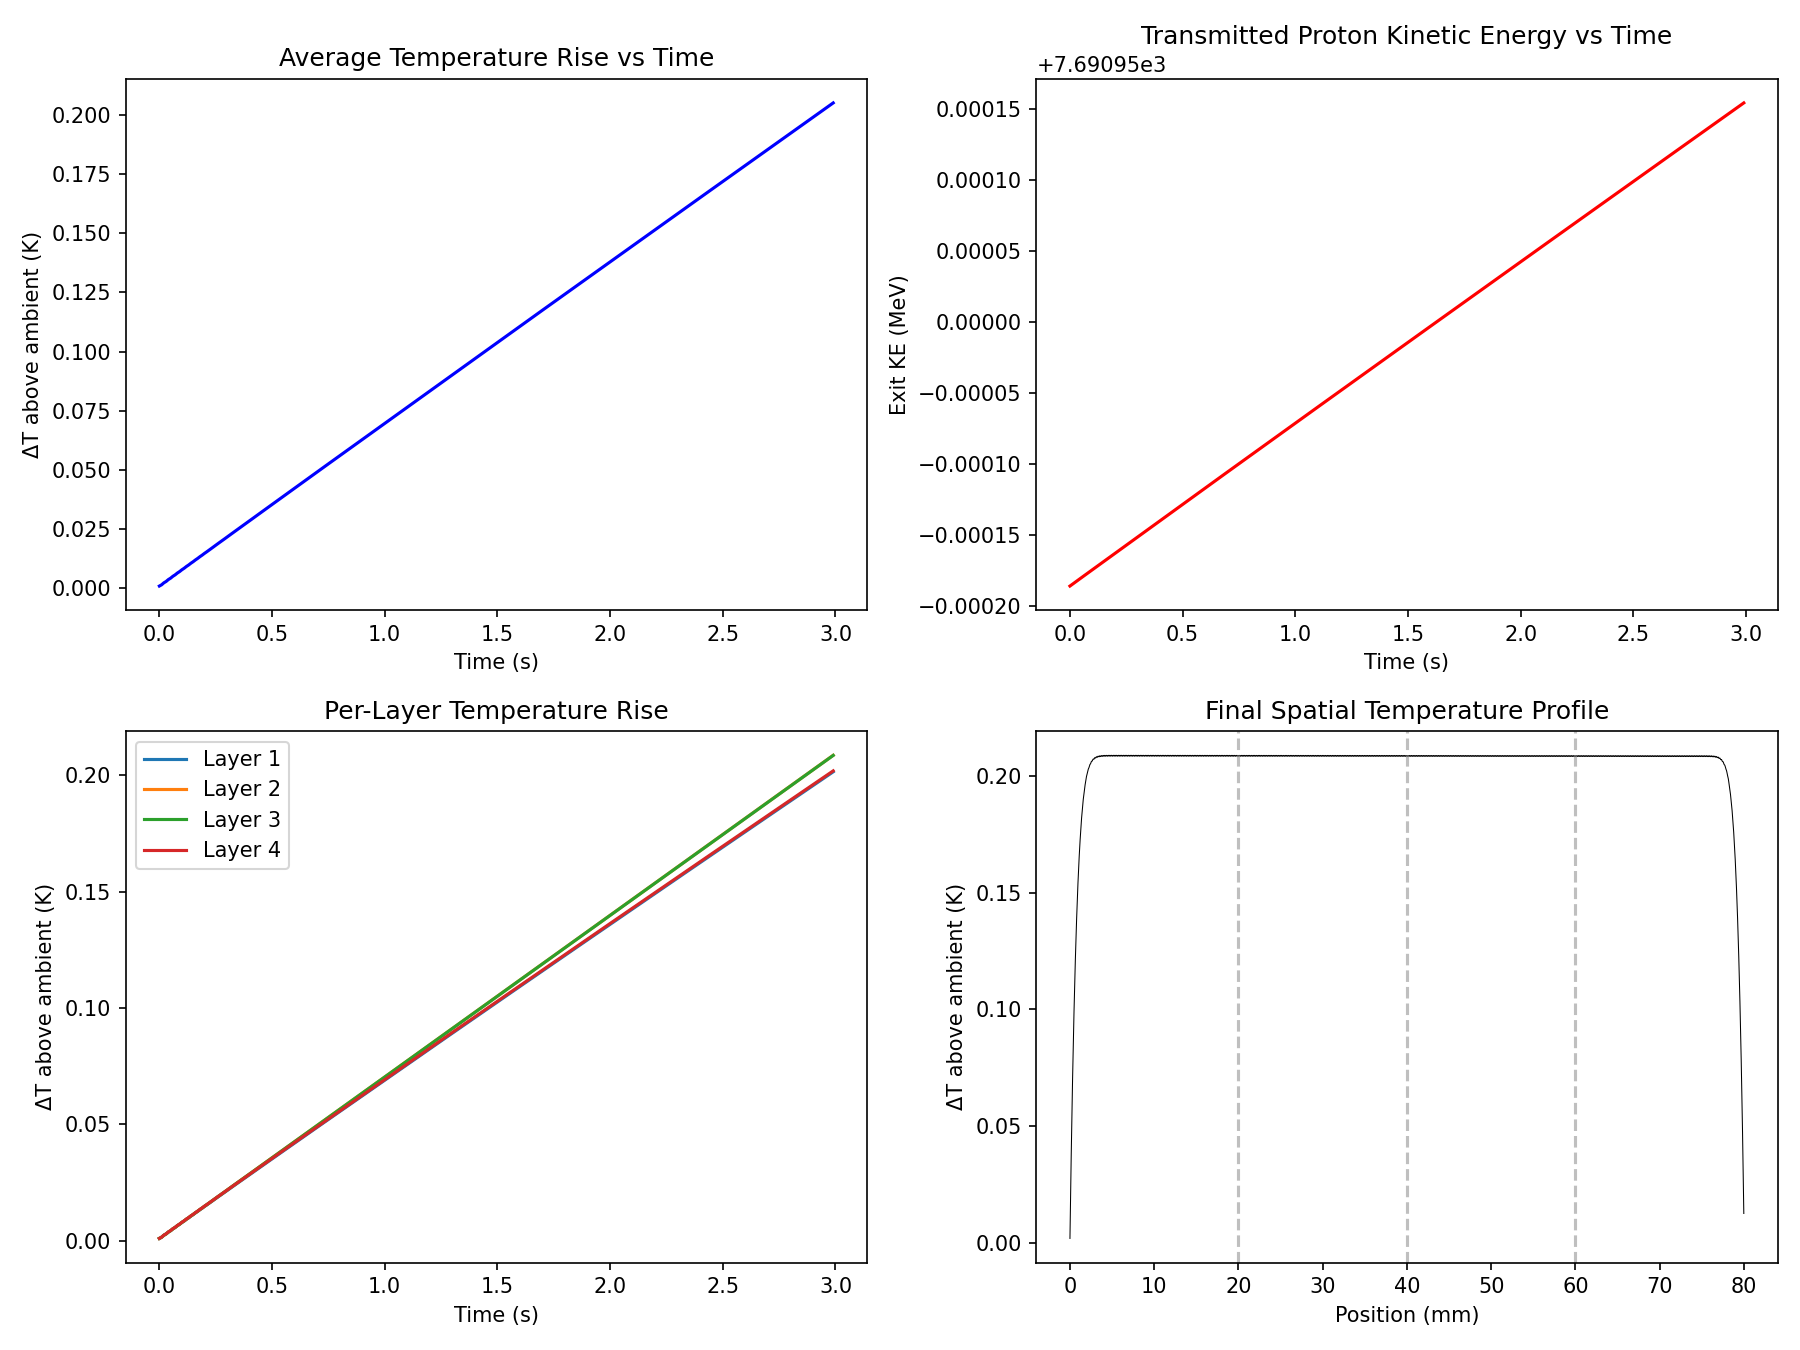
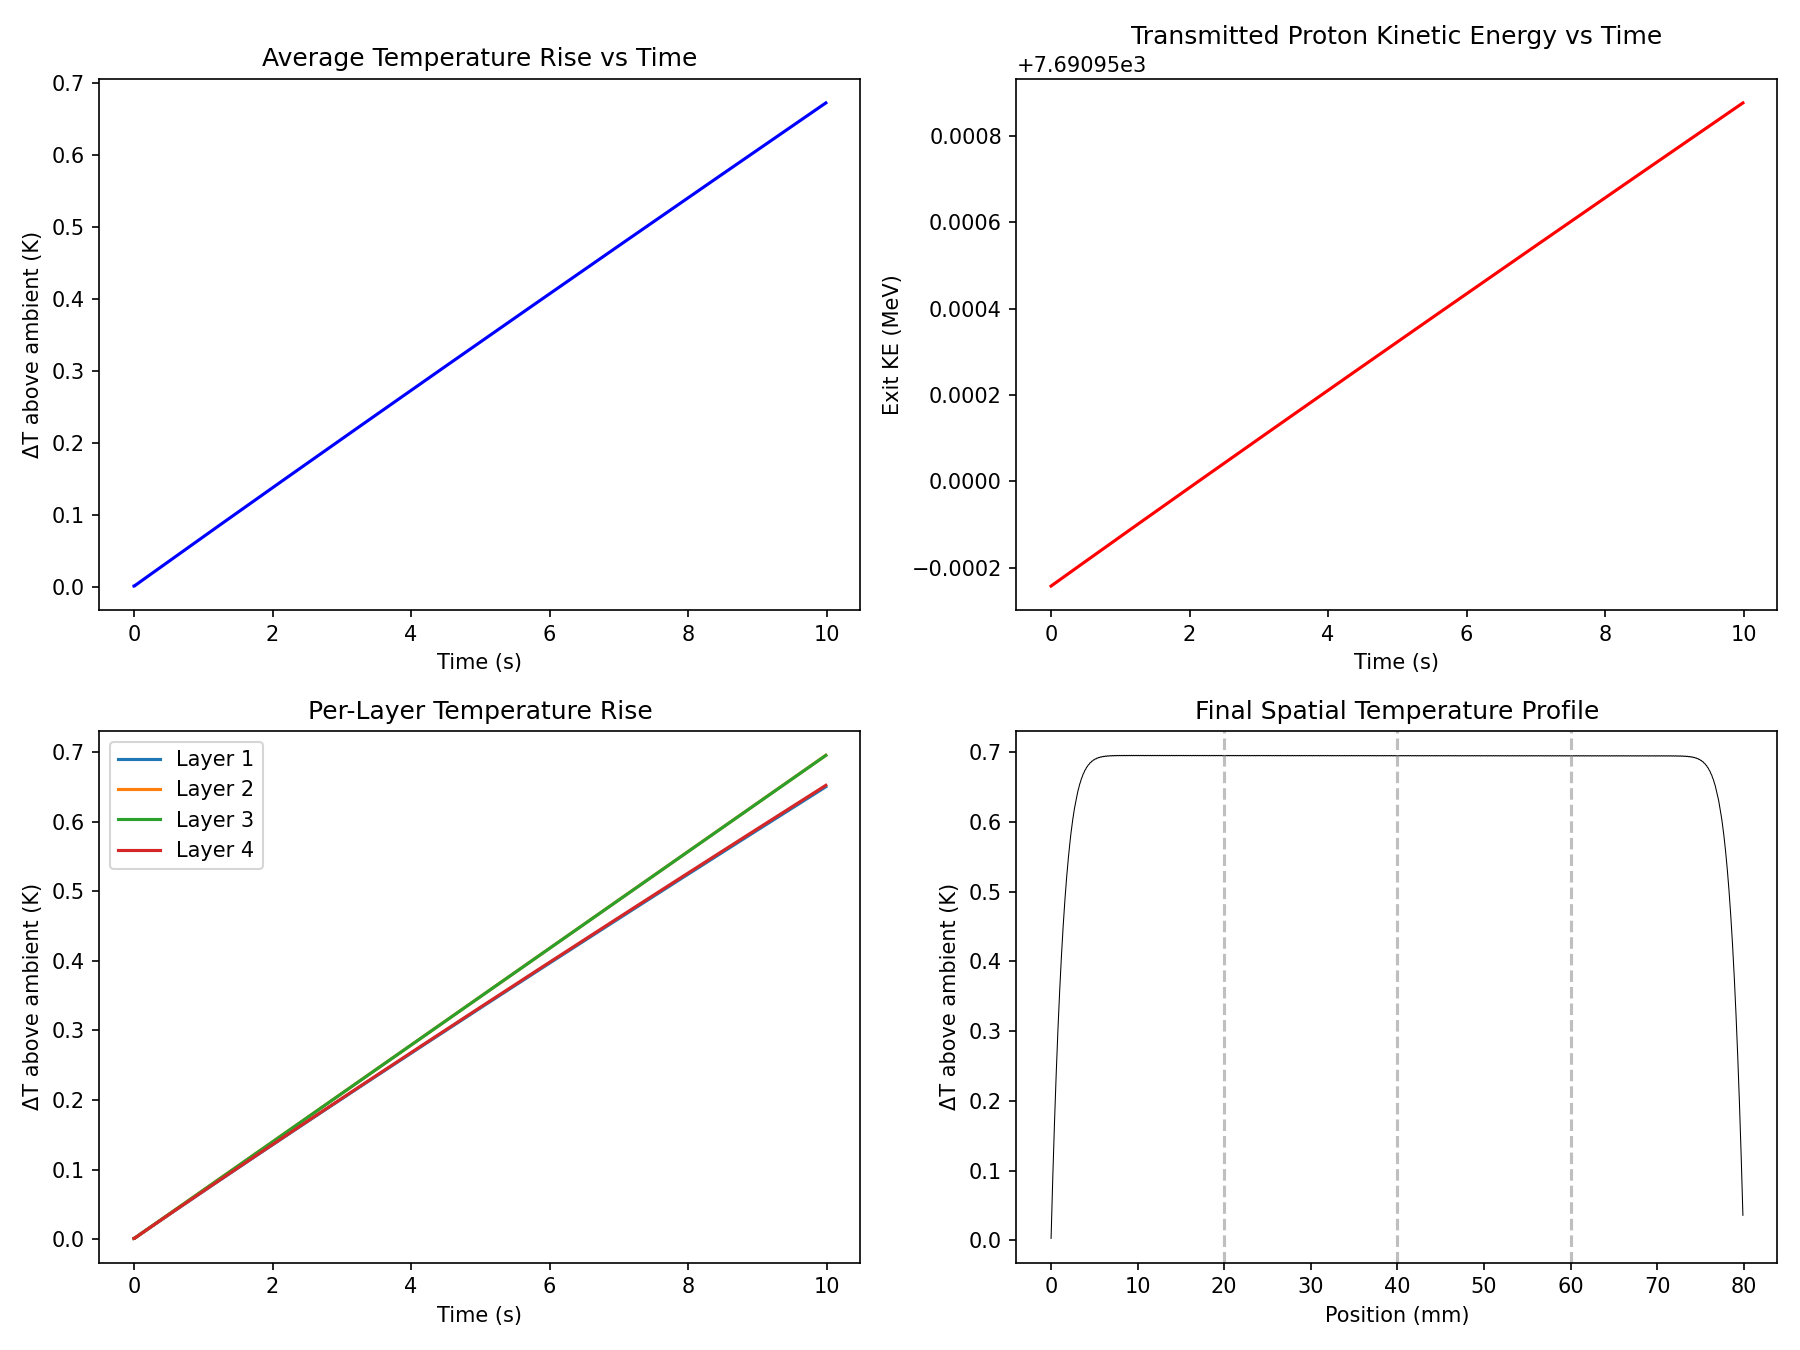
populate readme

diff --git a/sim.py b/sim.py
@@ -17,12 +17,12 @@ WATER_THICKNESS = 1e-4         # m per water sub-layer (10 µm)
 BISMUTH_THICKNESS = 1e-4       # m per bismuth sub-layer (10 µm)
 
 # -------- Boundary Conditions --------
-H_COOLING = 1e3                # convective heat transfer coeff (W/m^2/K)
+H_COOLING = 1e5                # convective heat transfer coeff (W/m^2/K)
 T_ENV = 293.0                  # K
 
 # -------- Numerics --------
-DX = 1e-5                      # spatial step (m) — match sub-layer thickness
-SIMULATION_TIME = 3.0          # seconds
+DX = 1e-4                      # spatial step (m) — match sub-layer thickness
+SIMULATION_TIME = 10.0          # seconds
 
 # ===================== CONSTANTS =====================
 
@@ -45,6 +45,14 @@ A_BISMUTH = 208.98
 
 THERMAL_EXPANSION_WATER = 2.07e-4  # 1/K
 N_A = 6.022e23
+
+TRIALS = [
+    ("Trial 1: 80 g Bi + 200 g H2O", 80.0, 200.0),
+    ("Trial 2: 40 g Bi + 200 g H2O", 40.0, 200.0),
+    ("Trial 3: 20 g Bi + 200 g H2O", 20.0, 200.0),
+    ("Trial 4: 10 g Bi + 200 g H2O", 10.0, 200.0),
+    ("Trial 5: pure Bi", 2000.0, 0.0),
+]
 
 # ===================== GEOMETRY =====================
 
@@ -72,6 +80,26 @@ def build_spatial_grid():
             current_z += DX
 
     return np.array(z_positions), np.array(material_map)
+
+
+def build_trial_material_map(bismuth_g, water_ml):
+    total_cells = len(build_layers()) * max(1, int(round(WATER_THICKNESS / DX)))
+    if water_ml <= 0:
+        return np.full(total_cells, "bismuth")
+    if bismuth_g <= 0:
+        return np.full(total_cells, "water")
+
+    bismuth_volume_ml = bismuth_g / (DENSITY_BISMUTH * 1e-3)
+    bismuth_fraction = bismuth_volume_ml / (bismuth_volume_ml + water_ml)
+    bismuth_cells = int(round(total_cells * bismuth_fraction))
+
+    material_map = np.full(total_cells, "water", dtype="<U7")
+    if bismuth_cells == 0:
+        return material_map
+
+    indices = np.linspace(0, total_cells - 1, bismuth_cells, dtype=int)
+    material_map[indices] = "bismuth"
+    return material_map
 
 
 # ===================== BETHE-BLOCH (all in MeV) =====================
@@ -143,6 +171,28 @@ def transport_protons(KE0_MeV, material_map, T_profile):
     return deposition_MeV, KE
 
 
+def compute_energy_profile(KE0_MeV, material_map, T_profile):
+    KE = KE0_MeV
+    energy_profile = np.empty(len(material_map))
+
+    for i, mat in enumerate(material_map):
+        if mat == "water":
+            density = DENSITY_WATER * (1 - THERMAL_EXPANSION_WATER * (T_profile[i] - T_ENV))
+        else:
+            density = DENSITY_BISMUTH
+
+        S = stopping_power(KE, mat, density)
+        dE = min(S * DX, KE)
+        KE -= dE
+        energy_profile[i] = KE
+
+        if KE <= 0:
+            energy_profile[i:] = 0.0
+            break
+
+    return energy_profile
+
+
 # ===================== THERMAL SOLVER (implicit) =====================
 
 def get_thermal_props(material_map):
@@ -179,17 +229,21 @@ def thermal_step_implicit(T, Q, rho, cp, k, dt):
         d[i] = (r[i] * T[i-1] + (1 - 2*r[i]) * T[i] + r[i] * T[i+1]
                 + dt * Q[i] / (rho[i] * cp[i]))
 
-    # Left boundary: convective cooling
-    h_coeff_L = H_COOLING * dt / (rho[0] * cp[0] * DX)
-    b[0] = 1 + h_coeff_L
-    c_diag[0] = 0
-    d[0] = T[0] + h_coeff_L * T_ENV + dt * Q[0] / (rho[0] * cp[0])
+    # boundary rows keep conductive coupling to the adjacent cell while
+    # adding a robin-type cooling term to the environment
+    h_coeff_L = H_COOLING * dt / (2 * rho[0] * cp[0] * DX)
+    a[0] = 0.0
+    b[0] = 1 + r[0] + h_coeff_L
+    c_diag[0] = -r[0]
+    d[0] = ((1 - r[0] - h_coeff_L) * T[0] + r[0] * T[1]
+            + 2 * h_coeff_L * T_ENV + dt * Q[0] / (rho[0] * cp[0]))
 
-    # Right boundary: convective cooling
-    h_coeff_R = H_COOLING * dt / (rho[-1] * cp[-1] * DX)
-    a[-1] = 0
-    b[-1] = 1 + h_coeff_R
-    d[-1] = T[-1] + h_coeff_R * T_ENV + dt * Q[-1] / (rho[-1] * cp[-1])
+    h_coeff_R = H_COOLING * dt / (2 * rho[-1] * cp[-1] * DX)
+    a[-1] = -r[-1]
+    b[-1] = 1 + r[-1] + h_coeff_R
+    c_diag[-1] = 0.0
+    d[-1] = (r[-1] * T[-2] + (1 - r[-1] - h_coeff_R) * T[-1]
+             + 2 * h_coeff_R * T_ENV + dt * Q[-1] / (rho[-1] * cp[-1]))
 
     # Thomas algorithm (tridiagonal solve)
     T_new = thomas_solve(a, b, c_diag, d)
@@ -220,15 +274,11 @@ def compute_stable_dt(rho, cp, k):
     return 0.01  # 10ms steps
 
 
-def run_simulation():
-    z, material_map = build_spatial_grid()
-    N = len(z)
-    print(f"Grid: {N} cells, total length: {z[-1]*1000:.2f} mm")
-
+def simulate_material_map(material_map):
+    N = len(material_map)
+    z = np.arange(N) * DX
     rho, cp, k = get_thermal_props(material_map)
     dt = compute_stable_dt(rho, cp, k)
-    print(f"Using dt = {dt:.6f} s")
-
     T = np.full(N, T_ENV)  # start at ambient
     times = np.arange(0, SIMULATION_TIME, dt)
 
@@ -262,6 +312,56 @@ def run_simulation():
         layer_avg_temps.append(layer_temps)
 
     return times, np.array(avg_temps), np.array(exit_energies), np.array(layer_avg_temps), z, T
+
+
+def run_simulation():
+    z, material_map = build_spatial_grid()
+    print(f"Grid: {len(z)} cells, total length: {z[-1]*1000:.2f} mm")
+
+    rho, cp, k = get_thermal_props(material_map)
+    dt = compute_stable_dt(rho, cp, k)
+    print(f"Using dt = {dt:.6f} s")
+
+    return simulate_material_map(material_map)
+
+
+def plot_trial_energy_profiles():
+    fig, ax = plt.subplots(figsize=(10, 6))
+
+    for label, bismuth_g, water_ml in TRIALS:
+        material_map = build_trial_material_map(bismuth_g, water_ml)
+        z = np.arange(len(material_map)) * DX
+        T_profile = np.full(len(material_map), T_ENV)
+        energy_profile = compute_energy_profile(PROTON_KE_MEV, material_map, T_profile)
+        ax.plot(z * 1000, energy_profile, linewidth=2, label=label)
+
+    ax.set_xlabel("Depth Through Shield (mm)")
+    ax.set_ylabel("Proton Energy Remaining (MeV)")
+    ax.set_title("Proton Energy Remaining vs Depth for Shield Trials")
+    ax.legend()
+    ax.grid(alpha=0.3)
+    fig.tight_layout()
+    fig.savefig("energy_remaining_by_trial.png", dpi=150)
+    return fig
+
+
+def plot_trial_temperature_profiles():
+    fig, ax = plt.subplots(figsize=(10, 6))
+
+    for label, bismuth_g, water_ml in TRIALS:
+        material_map = build_trial_material_map(bismuth_g, water_ml)
+        _, _, _, _, z, T_final = simulate_material_map(material_map)
+        ax.plot(z * 1000, T_final - T_ENV, linewidth=2, label=label)
+
+    ax.set_xlabel("Depth Through Shield (mm)")
+    ax.set_ylabel("Final Temperature Rise (K, log scale)")
+    ax.set_title("Final Temperature Rise vs Depth for Shield Trials")
+    ax.set_yscale("log")
+    ax.legend()
+    ax.grid(alpha=0.3)
+    fig.tight_layout()
+    fig.savefig("temperature_rise_by_trial.png", dpi=150)
+    return fig
 
 
 # ===================== RUN =====================
@@ -300,6 +400,12 @@ for i in range(1, NUM_PHYSICAL_LAYERS):
 plt.tight_layout()
 plt.savefig("simulation_results.png", dpi=150)
 plt.show()
+
+trial_fig = plot_trial_energy_profiles()
+trial_fig.show()
+
+trial_temp_fig = plot_trial_temperature_profiles()
+trial_temp_fig.show()
 
 print(f"\nFinal avg temp: {avg_temp[-1]:.2f} K (ΔT = {avg_temp[-1]-293:.4f} K)")
 print(f"Final exit energy: {exit_energy[-1]:.2f} MeV (of {PROTON_KE_MEV:.0f} MeV input)")

diff --git a/README.md b/README.md
@@ -1,0 +1,61 @@
+# bl4s_sim
+
+simple proton-shield simulation for a water/bismuth shielding concept.
+
+## experiment idea
+
+the project idea is to compare several water/bismuth shield trials in front of a proton beam and measure how much energy gets through the shield. the mixed shields are intended to test whether water plus bismuth can act as a better practical barrier than a pure high-z material alone.
+
+the motivating idea is:
+
+- water is a useful low-z material for moderating charged-particle energy deposition
+- bismuth is a dense high-z material that can increase attenuation without the toxicity of lead
+- comparing different bismuth loadings gives a way to test how composition changes transmitted beam energy and heating inside the shield
+
+## what it does
+
+`sim.py` models:
+
+- proton energy loss through a 1d shield
+- heat deposition and diffusion in the shield over time
+- comparison plots for the trial compositions defined in the script
+
+## connection to the simulation
+
+the simulation is a simplified version of the experiment, not a full beam-transport model.
+
+- it represents the shield as a 1d stack of water and bismuth cells
+- it uses a bethe-bloch stopping model for the primary proton energy loss
+- it converts deposited energy into a heat source and evolves temperature with a 1d diffusion solver
+- it generates comparison plots for the trial compositions listed in the script
+
+the simulation is most useful for comparing relative trends between trial compositions:
+
+- how quickly the primary proton loses energy with depth
+- where heat is deposited in the shield
+- how the final temperature profile changes across trials
+
+it does not currently model a full secondary-radiation cascade, detector response, or a detailed 3d suspension geometry.
+
+## requirements
+
+- python 3.13+
+- `uv`
+
+dependencies are listed in [pyproject.toml](/Users/hq/code/bl4s_sim/pyproject.toml).
+
+## run
+
+```bash
+uv run python sim.py
+```
+
+## outputs
+
+running the script writes:
+
+- `simulation_results.png`
+- `energy_remaining_by_trial.png`
+- `temperature_rise_by_trial.png`
+
+the script also prints the grid size, timestep, final average temperature, and final exit proton energy.
